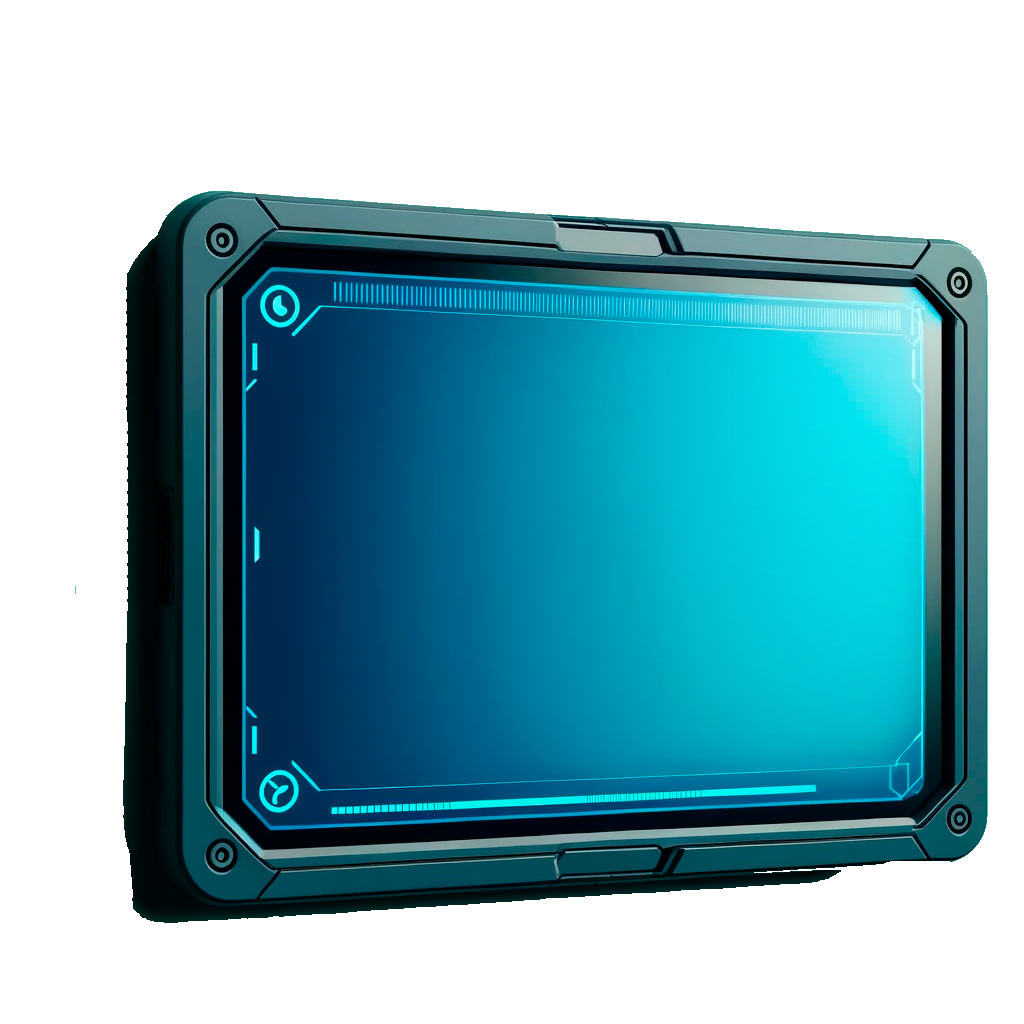
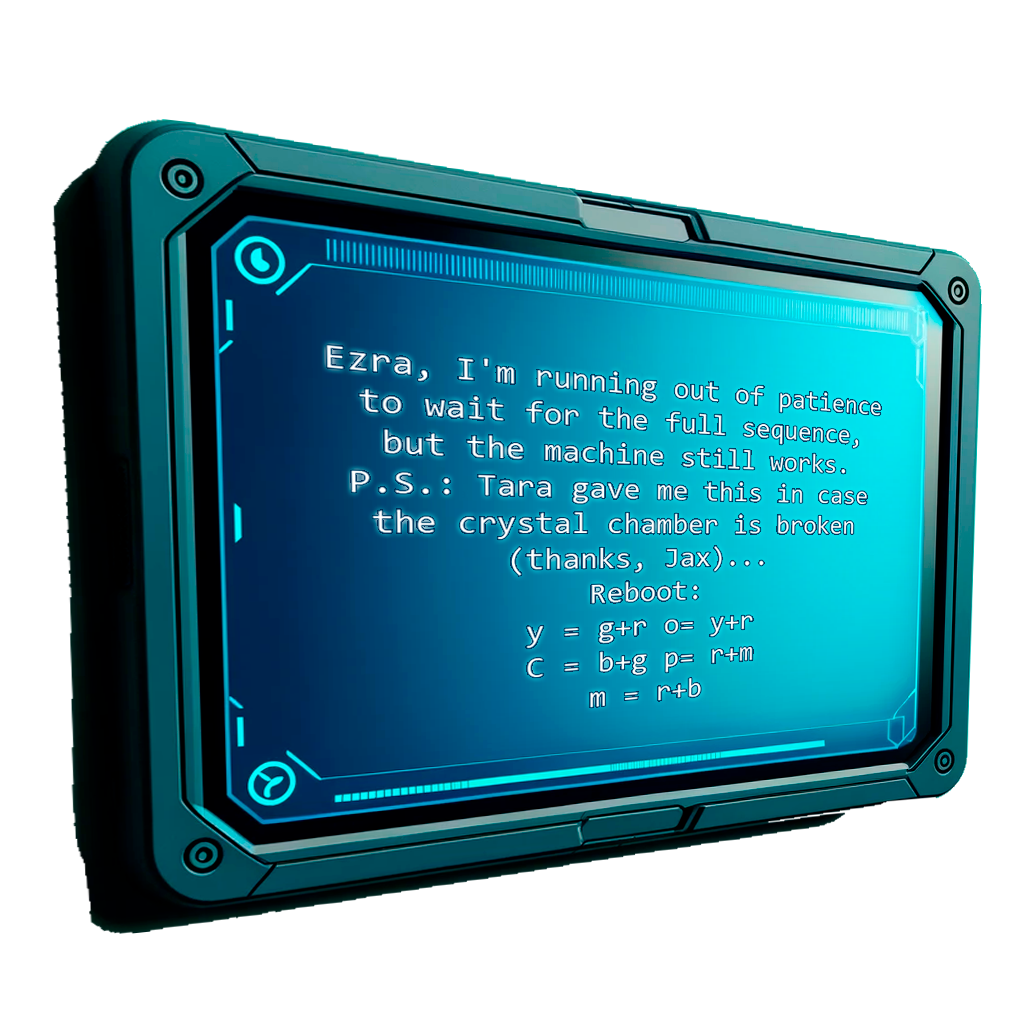
estoy enferma y creo que voy a conocer a mi creador

diff --git a/js/computerTest.js b/js/computerTest.js
@@ -251,6 +251,9 @@ function setupPrintTitaniaCode() {
     // Añadir evento para cambiar el contenido al hacer clic
     printLink.onclick = function() {
         contentDiv.textContent = 'PRINTING...'; // Cambiar texto del div
+        const clueDiv = document.createElement('div');
+        clueDiv.id = "clue-computer";
+        contentDiv.appendChild(clueDiv);
     };
 
     // Agregar el texto clicable al div

diff --git a/css/computer.css b/css/computer.css
@@ -88,6 +88,16 @@
     background-color: rgb(177, 253, 0);
     color: green;
 }
+#clue-computer{
+    width: 300px;
+    height: 300px;
+    background-image: url("../resources/img/pistaPC.png");
+    position: relative;
+    left: 33%;
+    top: 10%;
+    background-size: contain;
+    background-repeat: no-repeat;
+}
 
 .password-screen-computer {
     display: flex;

diff --git a/css/darkRoom.css b/css/darkRoom.css
@@ -23,7 +23,7 @@
 
 #dark-room-exit-button{
   position: fixed;
-  /*border: 2px solid red;*/
+  border: 2px solid red;
   width: 50px;
   height: 50px;
   border-radius: 50px;

diff --git a/css/ending.css b/css/ending.css
@@ -66,5 +66,4 @@
     right: 27%;
     z-index: 4;
     cursor: pointer;
-   
 }
